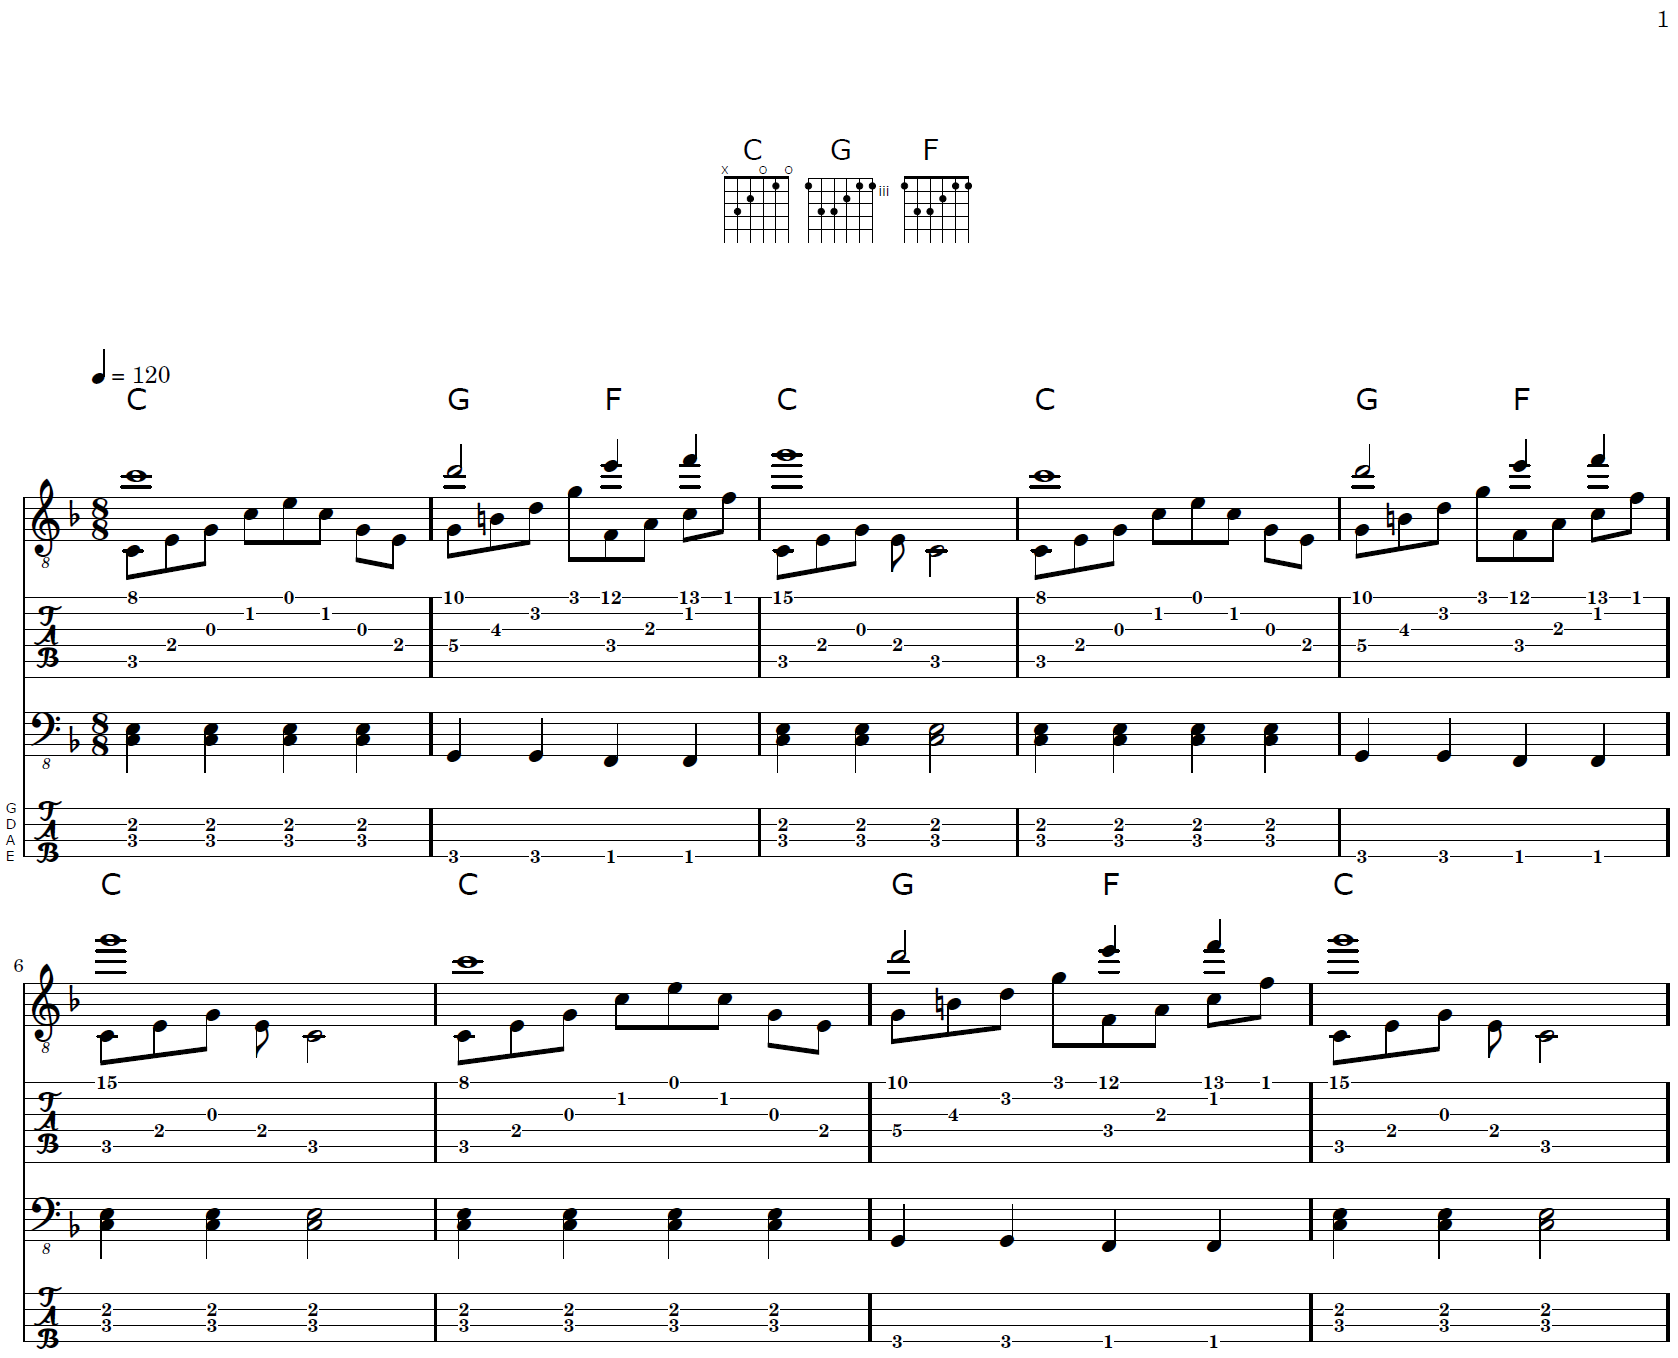
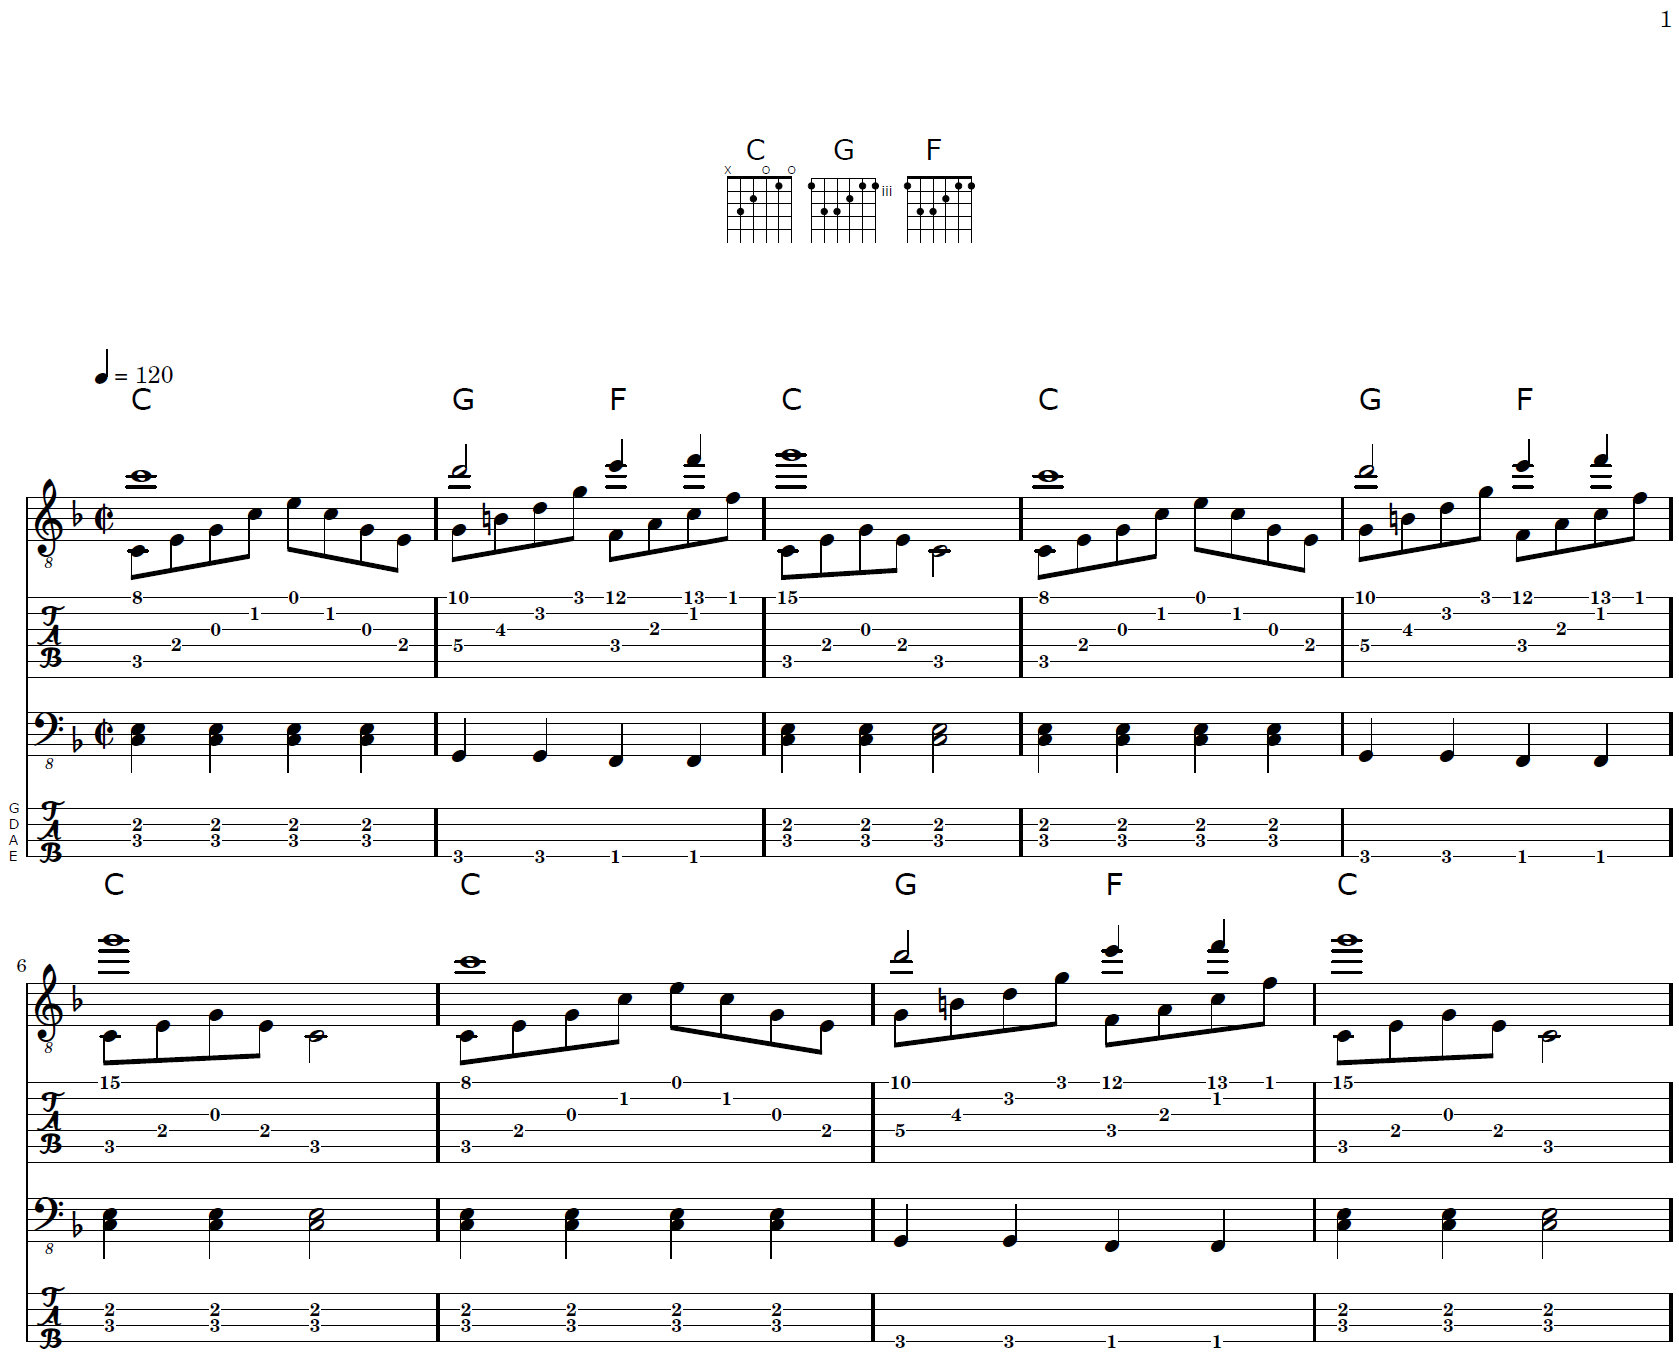
Update text, image and example.

diff --git a/docs/articles/tabr-engraving.html b/docs/articles/tabr-engraving.html
@@ -131,7 +131,7 @@
     
     
 <p>This section covers <code>lilypond</code> and <code>tab</code> for writing LilyPond files and engraving to sheet music with LilyPond, respectively. Examples of the various pieces of song metadata that can be passed to to these functions are provided.</p>
-<p>The examples focus on <code>tab</code> because this generates the tablature whereas <code>lilypond</code> only creates the LilyPond file that <code>tab</code> renders. <code>tab</code> is a wrapper around <code>lilypond</code>. The two functions have identical arguments, as <code>tab</code> merely passes them along to <code>lilypond</code> internally, except for one. <code>tab</code> has <code>keep_ly = FALSE</code> by default, which removes the <code>.ly</code> file created by <code>lilypond</code> following rendering of the file to pdf or png. To keep the LilyPond file, set this to <code>TRUE</code>. All other arguments are the same for both functions so they are really <code>lilypond</code> arguments, but after the first example using both functions, examples switch to only calling <code>tab</code>.</p>
+<p>The examples focus on <code>tab</code> because this generates the tablature whereas <code>lilypond</code> only creates the LilyPond file that <code>tab</code> renders. <code>tab</code> is a wrapper around <code>lilypond</code>. The two functions have identical arguments, as <code>tab</code> merely passes them along to <code>lilypond</code> internally, except for one. <code>tab</code> has <code>keep_ly = FALSE</code> by default, which removes the <code>.ly</code> file created by <code>lilypond</code> following rendering of the file to pdf or png. To keep the LilyPond file, set this to <code>TRUE</code>. All other arguments are the same for both functions so they are really <code>lilypond</code> arguments.</p>
 <p>Here are the <code>lilypond</code> arguments:</p>
 <div class="sourceCode"><pre class="sourceCode r"><code class="sourceCode r"><span class="kw">library</span>(tabr)
 <span class="kw">args</span>(lilypond)
@@ -174,9 +174,9 @@ song
 <span class="co">#&gt; 1 &lt;S3: phrase&gt; e, a, d g b e'     1 treble_8            0 &lt;NA&gt;          1</span>
 <span class="co">#&gt; 2 &lt;S3: phrase&gt; e, a, d g b e'     2 treble_8            0 &lt;NA&gt;          1</span>
 <span class="co">#&gt; 3 &lt;S3: phrase&gt; e,, a,, d, g,      1 bass_8              0 &lt;NA&gt;          2</span></code></pre></div>
-<p>This time, when rendering the song, use settings for the three arguments discussed above. Given what is written, it doesn’t make sense to change them all. For example, this won’t fit well as a waltz (time = “3/4”). But for illustration purposes, pretend the song is actually in the key of D minor (F major). This key has one flat, B, so this will force the B note in the G chord to be annotated as an accidental. Change the time to <code>8/8</code> just for the sake of changing it, which won’t be any different from <code>4/4</code>. Finally, change the tempo to <code>4 = 120</code>, which is also equivalent to the default, but will show up in the output slightly differently.</p>
-<div class="sourceCode"><pre class="sourceCode r"><code class="sourceCode r"><span class="kw"><a href="../reference/lilypond.html">lilypond</a></span>(song, <span class="st">"ex32.ly"</span>, <span class="st">"dm"</span>, <span class="st">"8/8"</span>, <span class="st">"4 = 120"</span>)
-<span class="kw"><a href="../reference/tab.html">tab</a></span>(song, <span class="st">"ex32.pdf"</span>, <span class="st">"dm"</span>, <span class="st">"8/8"</span>, <span class="st">"4 = 120"</span>)</code></pre></div>
+<p>This time, when rendering the song, use settings for the three arguments discussed above. Given what is written, it doesn’t make sense to change them all. For example, this won’t fit well as a waltz (time = “3/4”). But for illustration purposes, pretend the song is actually in the key of D minor (F major). This key has one flat, B, so this will force the B note in the G chord to be annotated as an accidental. Change the time to <code>2/2</code> just for the sake of changing it, which won’t really be any different from <code>4/4</code> except you will see a line through the common time symbol. Finally, change the tempo to <code>4 = 120</code>, which is also equivalent to the default, but will show up in the output slightly differently as well.</p>
+<div class="sourceCode"><pre class="sourceCode r"><code class="sourceCode r"><span class="kw"><a href="../reference/lilypond.html">lilypond</a></span>(song, <span class="st">"ex32.ly"</span>, <span class="st">"dm"</span>, <span class="st">"2/2"</span>, <span class="st">"4 = 120"</span>)
+<span class="kw"><a href="../reference/tab.html">tab</a></span>(song, <span class="st">"ex32.pdf"</span>, <span class="st">"dm"</span>, <span class="st">"2/2"</span>, <span class="st">"4 = 120"</span>)</code></pre></div>
 <p align="center">
 <img src="https://github.com/leonawicz/tabr/blob/master/data-raw/vignette-pngs/ex32.png?raw=true" width="100%"></p>
 <p>Notice how the key change alone, which added room for a single flat symbol to be squeezed into the start of the treble and bass clef staves, was enough to push everything to the point of wrapping around onto a second entire line compared to the earlier tutorial section where it all fit on one line. This is because it was a really tight fit to in the previous examples and there was not enough room for LilyPond to continue fitting everything on one line with this slight widening created by the key change. LilyPond generates sheet music with a somewhat responsive layout engraver. It won’t leave everything on line one jam packaged and push a single measure to the line two. This will return to fitting on one line in a moment when we revert the key change.</p>
